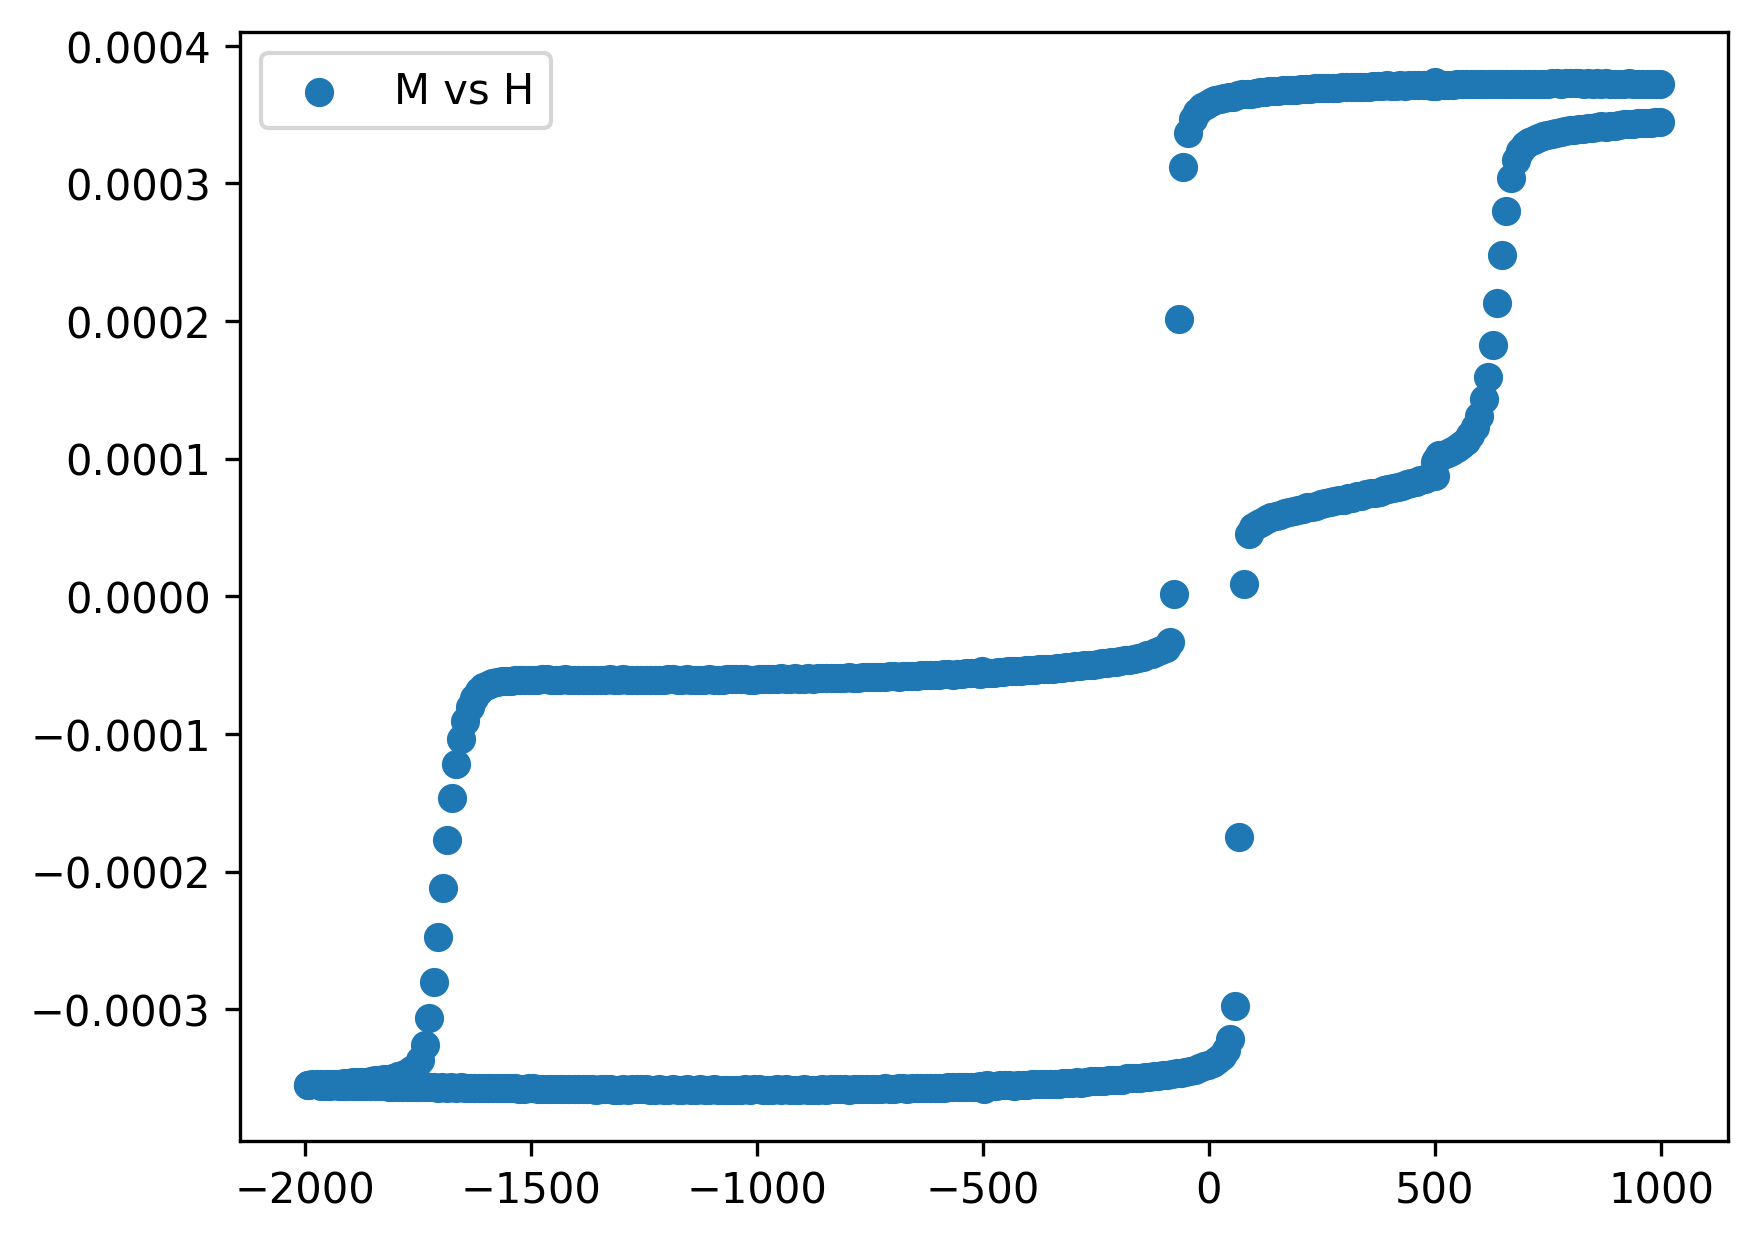
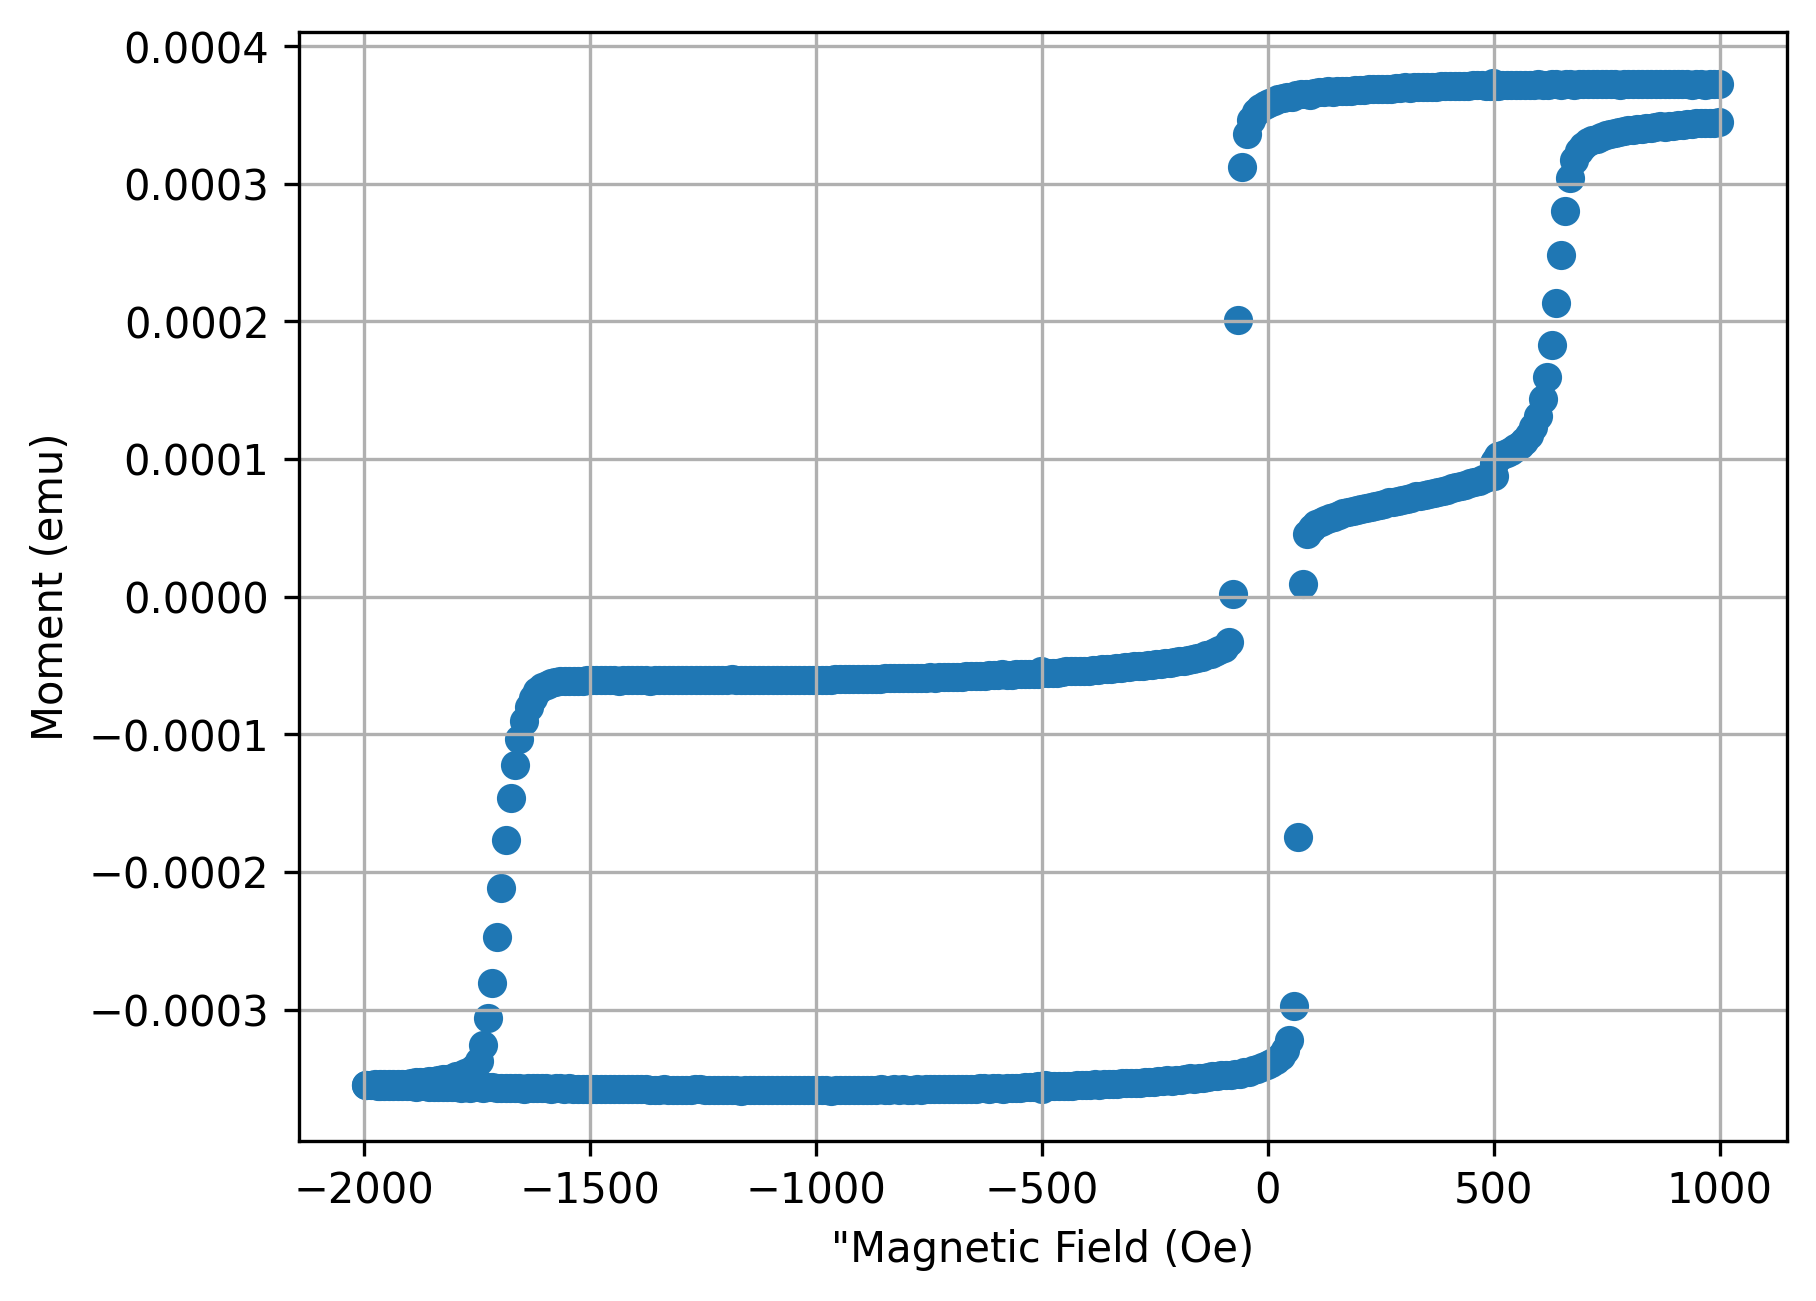
Add grid for 10K hysteresis

diff --git a/10K_hysteresis.py b/10K_hysteresis.py
@@ -20,7 +20,9 @@ print(len(data_low_temp))
 H = np.array([d["Magnetic Field (Oe)"] for d in data_low_temp])
 M = np.array([d["Moment (emu)"] for d in data_low_temp])
 
-plt.scatter(H, M, label="M vs H")
-plt.legend()
+plt.scatter(H, M)
+plt.xlabel('"Magnetic Field (Oe)')
+plt.ylabel('Moment (emu)')
+plt.grid()
 plt.savefig(output_path, dpi=300, transparent=False, bbox_inches='tight')
 plt.show()